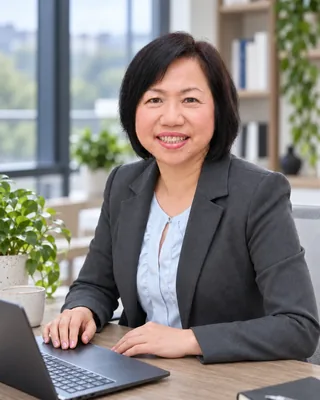
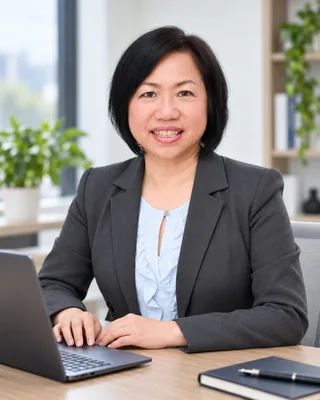
Work With Me: new portrait and centred heading
Replaces the portrait at all four sizes (same 4:5 shape) and centres the
label and heading above the left-aligned text.

Claude-Session: https://claude.ai/code/session_01FaBq9Mmopw3V5RV7U6DxX8

diff --git a/src/pages/WorkWithMe.tsx b/src/pages/WorkWithMe.tsx
@@ -159,12 +159,14 @@ const WorkWithMe = () => {
                 </div>
 
                 <div className="sm:order-1">
-                  <span className="inline-block text-brand-label font-semibold text-xs uppercase tracking-widest mb-4 px-3 py-1 bg-accent-warm/10 rounded-full">
-                    How Engagements Work
-                  </span>
-                  <h1 className="text-3xl sm:text-4xl lg:text-[44px] font-bold text-foreground mb-4">
-                    Work With Me
-                  </h1>
+                  <div className="text-center">
+                    <span className="inline-block text-brand-label font-semibold text-xs uppercase tracking-widest mb-4 px-3 py-1 bg-accent-warm/10 rounded-full">
+                      How Engagements Work
+                    </span>
+                    <h1 className="text-3xl sm:text-4xl lg:text-[44px] font-bold text-foreground mb-4">
+                      Work With Me
+                    </h1>
+                  </div>
                   <p className="text-base sm:text-[17px] text-accent-warm font-medium mb-4">
                     AI Adoption &amp; Transformation Consultant for Founder-Led Service Businesses
                   </p>
